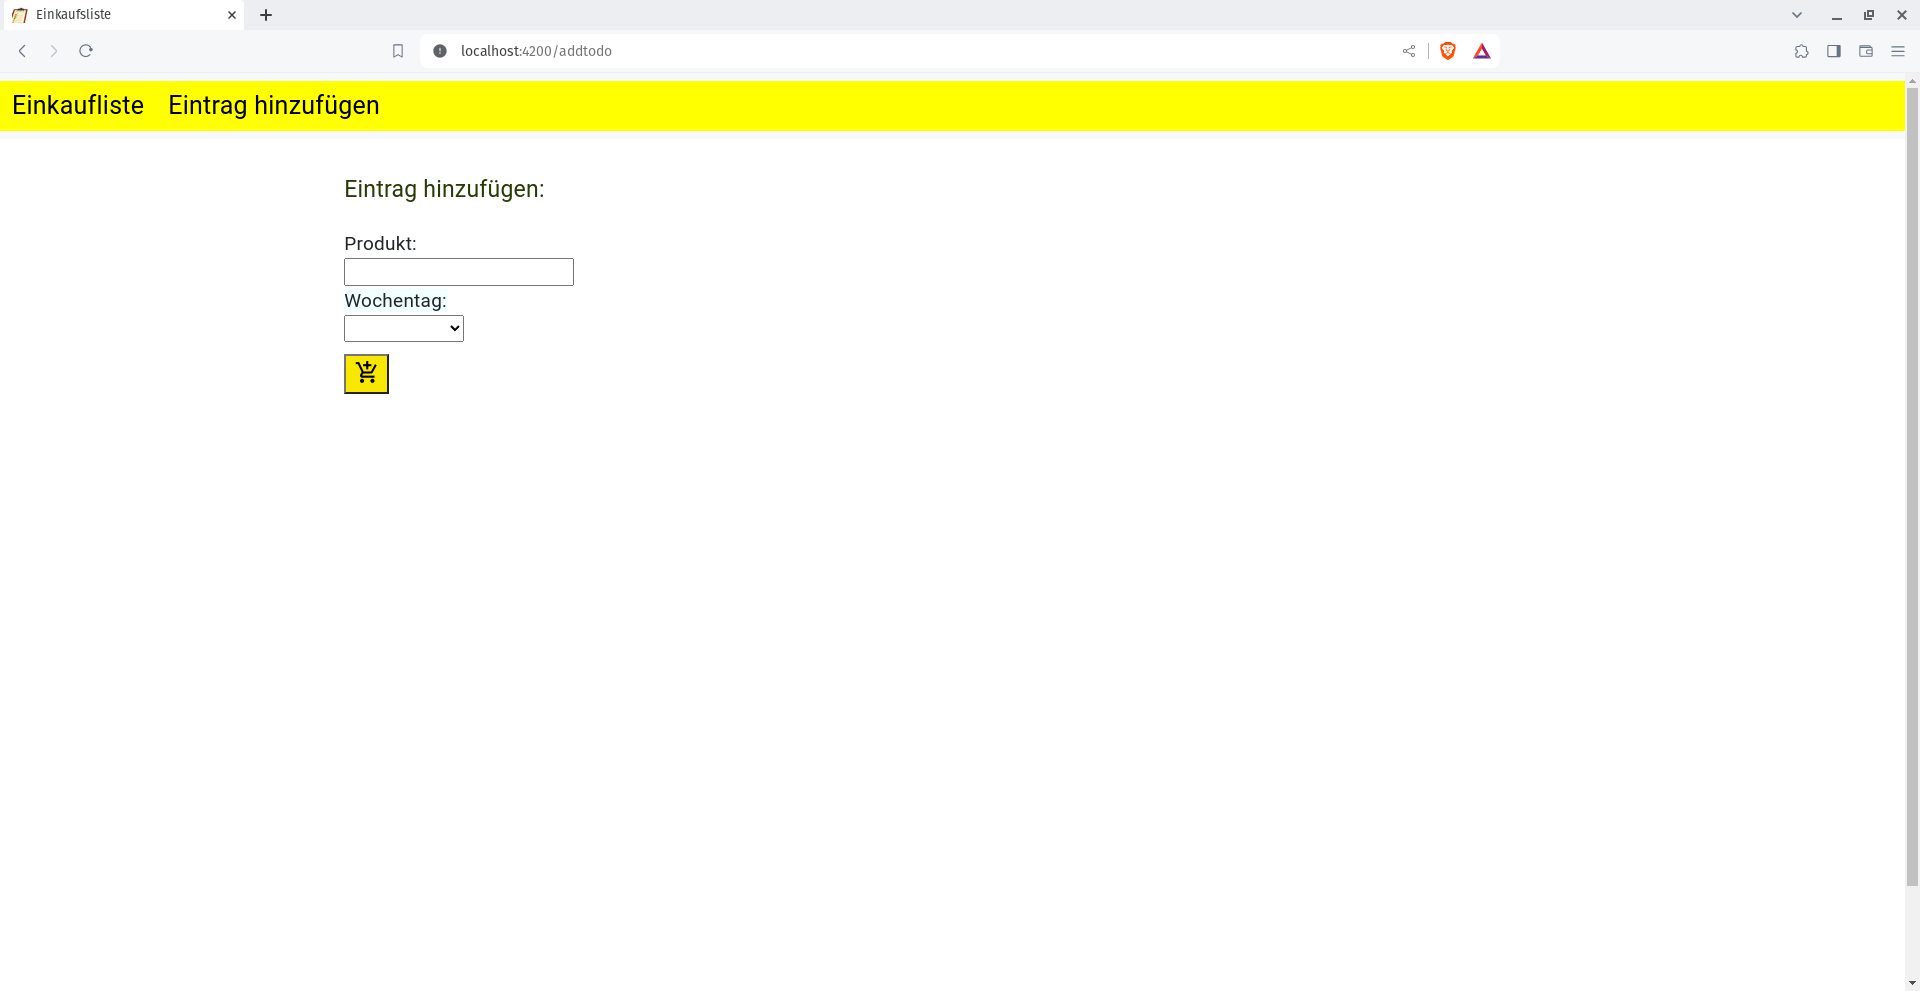
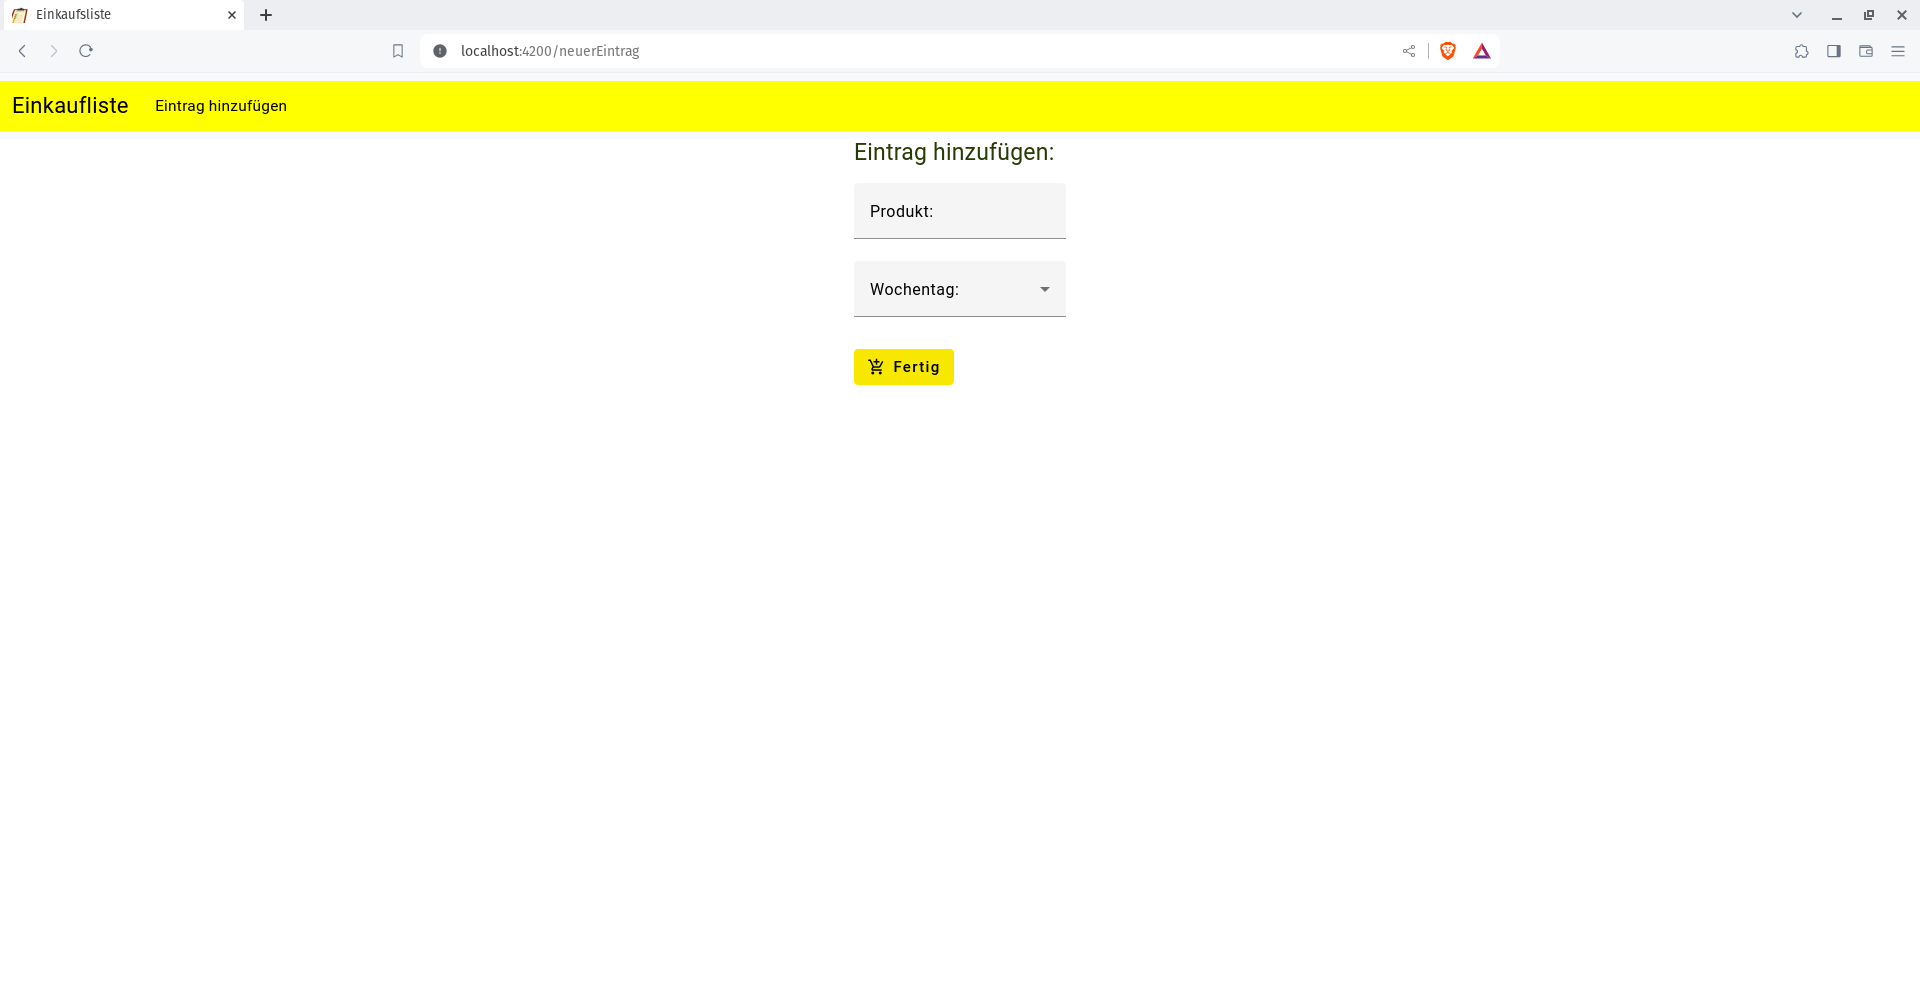
update

diff --git a/src/app/components/add-product/add-product.component.html b/src/app/components/add-product/add-product.component.html
@@ -1,33 +1,25 @@
 <div class="maindiv">
-<body>
-    <h3>Eintrag hinzufügen:</h3>
 
-    <div class="addentryform">
+    <body>
+        <div class="mat-form-field">
+            <div class="mat-form-field">
 
-        <label for="text">Produkt:</label><br>
-        <input type="text" name="text" id="text" [(ngModel)]="shoppinglist.product"><br>
+                <h3>Eintrag hinzufügen:</h3>
+                <mat-form-field>
+                    <mat-label for="text">Produkt:</mat-label>
+                    <input matInput type="text" name="text" id="text" [(ngModel)]="shoppinglist.product">
+                </mat-form-field><br>
+                <mat-form-field>
+                    <mat-label>Wochentag:</mat-label>
+                    <mat-select [(ngModel)]="shoppinglist.weekday" name="weekday">
+                        <mat-option *ngFor="let day of weekdays"  [value]="day">{{day}}</mat-option>
+                   
+                    </mat-select>
+                </mat-form-field><br>
+                
 
-        <mat-label>Wochentag:</mat-label>
-
-        <select [(ngModel)]="shoppinglist.weekday" name="weekday">
-            <option>{{weekdays[1]}}</option>
-            <option>{{weekdays[2]}}</option>
-            <option>{{weekdays[3]}}</option>
-            <option>{{weekdays[4]}}</option>
-            <option>{{weekdays[5]}}</option>
-            <option>{{weekdays[6]}}</option>
-            <option>{{weekdays[0]}}</option>
-
-        </select>
-        <br>
-
-        <button (click)="addNewProduct();"><mat-icon>add_shopping_cart</mat-icon> </button>
-
-
-        <br>
-        <select name="" style="visibility: hidden;" id="" [(ngModel)]="shoppinglist.isDone">
-            <option value="false"></option>
-        </select>
-    </div>
-</body>
+                <button mat-button (click)="addNewProduct();">Fertig<mat-icon>add_shopping_cart</mat-icon> </button>
+            </div>
+        </div>
+    </body>
 </div>

diff --git a/src/app/components/Shopping-list/shopping-list.component.html b/src/app/components/Shopping-list/shopping-list.component.html
@@ -5,7 +5,7 @@
         <mat-card>
             <mat-card-header>
                 <h2>Einkaufsliste</h2>
-                    <mat-label>Wochentage: </mat-label>
+                    <mat-label>Wochentag: </mat-label>
                     <select matNativeControl required name="weekday" id="weekday" [(ngModel)]="SelectedWeekday">
                         <option>{{weekdays[1]}}</option>
                         <option>{{weekdays[2]}}</option>
@@ -19,7 +19,7 @@
             </mat-card-header>
             <div *ngFor="let item of shoppinglist" class="matcarddiv">
                 <mat-card-content *ngIf="item.weekday==SelectedWeekday"> <input type="checkbox" value="{{item.id}}"
-                        (change)="MakeButtonsVisibleOnRadioEvent($event)">
+                        (change)="RadioEvent($event)">
 
                     {{item.product}} <div style="margin-left: 3%;" id="entryIsDone{{item.id}}">
                         {{ShowIfEntryIsDone(item.isDone, item.id)}}</div>

diff --git a/src/app/components/add-product/add-product.component.scss b/src/app/components/add-product/add-product.component.scss
@@ -1,48 +1,35 @@
-.addentryform {
-    margin-left: 37.5%;
-    font-size: 19px;
-    width: 100px;
-}
+
 button{
     height: 40px;
-    width: 45px;
+    width: 100px;
     margin-top: 10px;
     text-align: center;
-    font-size: 10px;
-
+    font-size: 15px;
     background-color: rgb(248, 232, 0);
 }
-.maindiv{
-    height: 100vh;
-    width: 100vh;
 
+
+
+.mat-form-field{
+    display: block;
+}
+mat-label{
+    color: black;
 }
 
-mat-form-field,mat-label,mat-select{
-    width: 200px;
-    background-color: azure;
-}
 mat-icon{
     font-size: 25px;
 }
 
 
 h3 {
-    margin-left: 37.5%;
-    margin-top: 2%;
+    
     color: rgb(40, 59, 4);
     font-size: 23px;
 }
-
-input {
-    width: 230px;
-    height: 28px;
-}
-label{
-    margin-top: 10%;
-}
 body{
-    margin-top: 4%;
-
-
+    display: flex;
+    justify-content: center;
+    
 }
+

diff --git a/src/app/app.module.ts b/src/app/app.module.ts
@@ -12,9 +12,8 @@ import { MatIconModule } from '@angular/material/icon'
 import { MatFormFieldModule } from '@angular/material/form-field'
 import { MatButtonModule } from '@angular/material/button'
 import { MatSelectModule } from '@angular/material/select'
-
-
 import { BrowserAnimationsModule } from '@angular/platform-browser/animations';
+import {MatInputModule} from '@angular/material/input';
 
 
 @NgModule({
@@ -33,8 +32,10 @@ import { BrowserAnimationsModule } from '@angular/platform-browser/animations';
     MatFormFieldModule,
     MatCardModule,
     BrowserAnimationsModule,
+    MatIconModule,
+    MatSelectModule,
     MatButtonModule,
-    MatIconModule
+    MatInputModule
 
     
   ],

diff --git a/src/app/components/header/header.component.html b/src/app/components/header/header.component.html
@@ -8,7 +8,7 @@
       <div class="collapse navbar-collapse" id="navbarNav">
         <ul class="navbar-nav">
           <li class="nav-item">
-            <a class="nav-link active" aria-current="page" href="/addtodo">Eintrag hinzufügen</a>
+            <a class="nav-link active" aria-current="page" href="/neuerEintrag">Eintrag hinzufügen</a>
           </li>
          
         </ul>

diff --git a/src/app/components/Shopping-list/shopping-list.component.ts b/src/app/components/Shopping-list/shopping-list.component.ts
@@ -49,12 +49,10 @@ export class ShoppingListComponent implements OnInit {
   }
 
 
-  MakeButtonsVisibleOnRadioEvent(event: any) {
+  RadioEvent(event: any) {
     this.id = event.target.value;
     console.log(this.id)
 
-    document.getElementById("deleteEntry")!.style.visibility = "visible";
-    document.getElementById("isDone")!.style.visibility = "visible";
 
   }
 

diff --git a/src/app/components/add-product/add-product.component.ts b/src/app/components/add-product/add-product.component.ts
@@ -16,6 +16,7 @@ export class AddProductComponent {
 
   addNewProduct() {
     if (this.shoppinglist.weekday!)
+    this.shoppinglist.isDone= false
       console.log(this.shoppinglist)
     this.postService.postShoppinglistItem(this.shoppinglist).subscribe();
     window.location.reload();

diff --git a/src/app/app-routing.module.ts b/src/app/app-routing.module.ts
@@ -8,7 +8,7 @@ const routes: Routes = [
     component: ShoppingListComponent
   },
   {
-    path: 'addtodo',
+    path: 'neuerEintrag',
     component: AddProductComponent
   }
 ];

diff --git a/src/app/components/header/header.component.scss b/src/app/components/header/header.component.scss
@@ -4,8 +4,7 @@ div {
 
 }
 a{
-    font-size: 25px;
-   
+zoom: 1.1;   
 }
 
 img {
